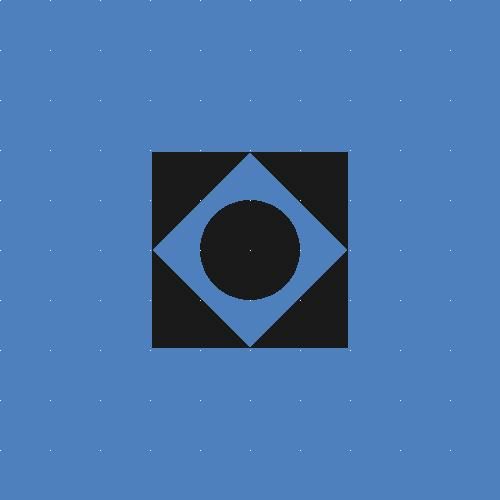
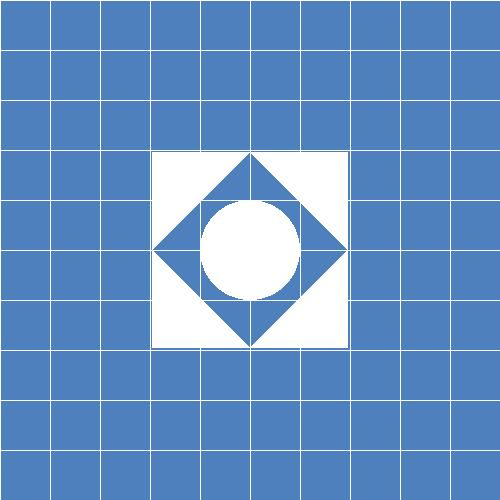
updates

diff --git a/src/unitTest/RenderTest.java b/src/unitTest/RenderTest.java
@@ -19,8 +19,8 @@ public class RenderTest
     	Scene scene = new Scene(new AmbientLight(255,255,255), 
 				    			new Color(0.3f,0.5f,0.74f), 
 				    			new Camera(), 48);
-         
-        scene.addGeometry(new Sphere(50, new Point3D(0.0, 0.0, -50)));
+         Sphere sphere = new Sphere(50, new Point3D(0.0, 0.0, -50));
+        
          
         Triangle triangle = new Triangle(new Point3D( 100, 0, -49),
                                          new Point3D(  0, 100, -49),
@@ -37,7 +37,14 @@ public class RenderTest
         Triangle triangle4 = new Triangle(new Point3D(-100, 0, -49),
                                           new Point3D(  0,  -100, -49),
                                           new Point3D(-100, -100, -49));
-         
+        
+        sphere.setEmmission(new Color (255, 255, 255));
+        triangle.setEmmission(new Color (255, 255, 255));
+        triangle2.setEmmission(new Color (255, 255, 255));
+        triangle3.setEmmission(new Color (255, 255, 255));
+        triangle4.setEmmission(new Color (255, 255, 255));
+        
+        scene.addGeometry(sphere);
         scene.addGeometry(triangle);
         scene.addGeometry(triangle2);
         scene.addGeometry(triangle3);
@@ -51,6 +58,47 @@ public class RenderTest
         render.printGrid(50);
         render.writeToImage();
          
+        
+    	/*Scene scene = new Scene(new AmbientLight(255,255,255), 
+    			new Color(0.3f,0.5f,0.74f), 
+    			new Camera(), 50);
+                
+        Sphere sphere = new Sphere(50, new Point3D(0.0, 0.0, -50));
+		Triangle triangle = new Triangle(new Point3D( 150, 0, -50),
+				 		    new Point3D(  0, 150, -50),
+				 		    new Point3D( 150, 150, -50));
+		
+		Triangle triangle2 = new Triangle(new Point3D( 150, 0, -50),
+				 		     new Point3D(  0, -150, -50),
+				 		     new Point3D( 150,-150, -50));
+		
+		Triangle triangle3 = new Triangle(new Point3D(-150, 0, -50),
+				 		      new Point3D(  0, 150, -50),
+				 		      new Point3D(-150, 150, -50));
+		
+		Triangle triangle4 = new Triangle(new Point3D(-150, 0, -50),
+				 		     new Point3D(  0,  -150, -50),
+				 		     new Point3D(-150, -150, -50));
+               
+               sphere.setEmmission(new Color (255, 255, 255));
+               triangle.setEmmission(new Color (255, 255, 255));
+               triangle2.setEmmission(new Color (255, 255, 255));
+               triangle3.setEmmission(new Color (255, 255, 255));
+               triangle4.setEmmission(new Color (255, 255, 255));
+               
+		scene.addGeometry(sphere);
+		scene.addGeometry(triangle);
+		scene.addGeometry(triangle2);
+		scene.addGeometry(triangle3);
+		scene.addGeometry(triangle4);
+		
+		ImageWriter imageWriter = new ImageWriter("Emmission test", 500, 500, 500, 500);
+		
+		Render render = new Render(imageWriter, scene);
+		
+		render.renderImage();
+		render.printGrid(50);
+		render.writeToImage();*/
     }
      
 }

diff --git a/src/renderer/Render.java b/src/renderer/Render.java
@@ -42,8 +42,8 @@ public class Render	{
 	public void renderImage(){
 		//TODO
 		List<Point3D> intersectionPoints =	new ArrayList<Point3D>();
-		for (int i = 0; i < _imageWriter.getHeight(); i++) {
-			for (int j = 0; j < _imageWriter.getWidth(); j++) {
+		for (int i = 0; i < _imageWriter.getNx(); i++) {
+			for (int j = 0; j < _imageWriter.getNy(); j++) {
 				Ray ray = _scene.getCamera().constructRayThroughPixel(_imageWriter.getNx(),
 				_imageWriter.getNy(), j, i,_scene.getScreenDistance(), _imageWriter.getWidth(), 
 				_imageWriter.getHeight());
@@ -66,9 +66,11 @@ public class Render	{
 	public void printGrid(int interval){
 		//TODO
 		for (int i = 0; i < _imageWriter.getWidth()/interval; i++) {
-			for (int j = 0; j < _imageWriter.getHeight()/interval; j++) {
-				_imageWriter.writePixel(interval*i + i/interval
-						, interval*j + i/interval
+			for (int j = 0; j < _imageWriter.getNy(); j++) {
+				_imageWriter.writePixel(j
+						, i * interval
+						, 255, 255, 255);
+				_imageWriter.writePixel(i * interval, j
 						, 255, 255, 255);
 			}
 		}

diff --git a/src/elements/SpotLight.java b/src/elements/SpotLight.java
@@ -14,8 +14,20 @@ public class SpotLight extends PointLight {
 	// ***************** Getters/Setters ********************** //
 	public Color getIntensity(Point3D point){
 		// TODO
-		double d = _position.distance(point);
-		//_direction.dotProduct(_direction)
-		return null;
+		Vector dVector = new Vector(_direction);
+		double d = dVector.length();
+		Vector lVector = new Vector(point);
+		dVector.normalize();
+		lVector.normalize();
+		double dot = dVector.dotProduct(lVector);
+		float I = (float)(dot * _color.getRGB());
+		I /= (_Kc * d * _Kl * Math.pow(d, 2) * _Kq);
+		
+		float r = _color.getRed() * I / 255;
+		float g = _color.getGreen() * I / 255;
+		float b = _color.getBlue() * I / 255;
+		
+		return new Color(r, g, b);
+
 	}
 }

diff --git a/src/geometries/Geometry.java b/src/geometries/Geometry.java
@@ -27,7 +27,7 @@ public abstract class Geometry {
 	}
 //	public void setMaterial(Material _material);
 	public void setEmmission(Color emmission){
-		_emmission = emmission;
+		_emmission = new Color(emmission.getRGB());
 	}
 	public void setKs(double ks){
 		

diff --git a/src/elements/AmbientLight.java b/src/elements/AmbientLight.java
@@ -4,7 +4,7 @@ import java.util.Map;
 
 public class AmbientLight extends Light	{
 	
-	private final double _Ka = 0.1;
+	private final double _Ka = 1;
 	
 	// ***************** Constructors ********************** //
 	public AmbientLight(){
